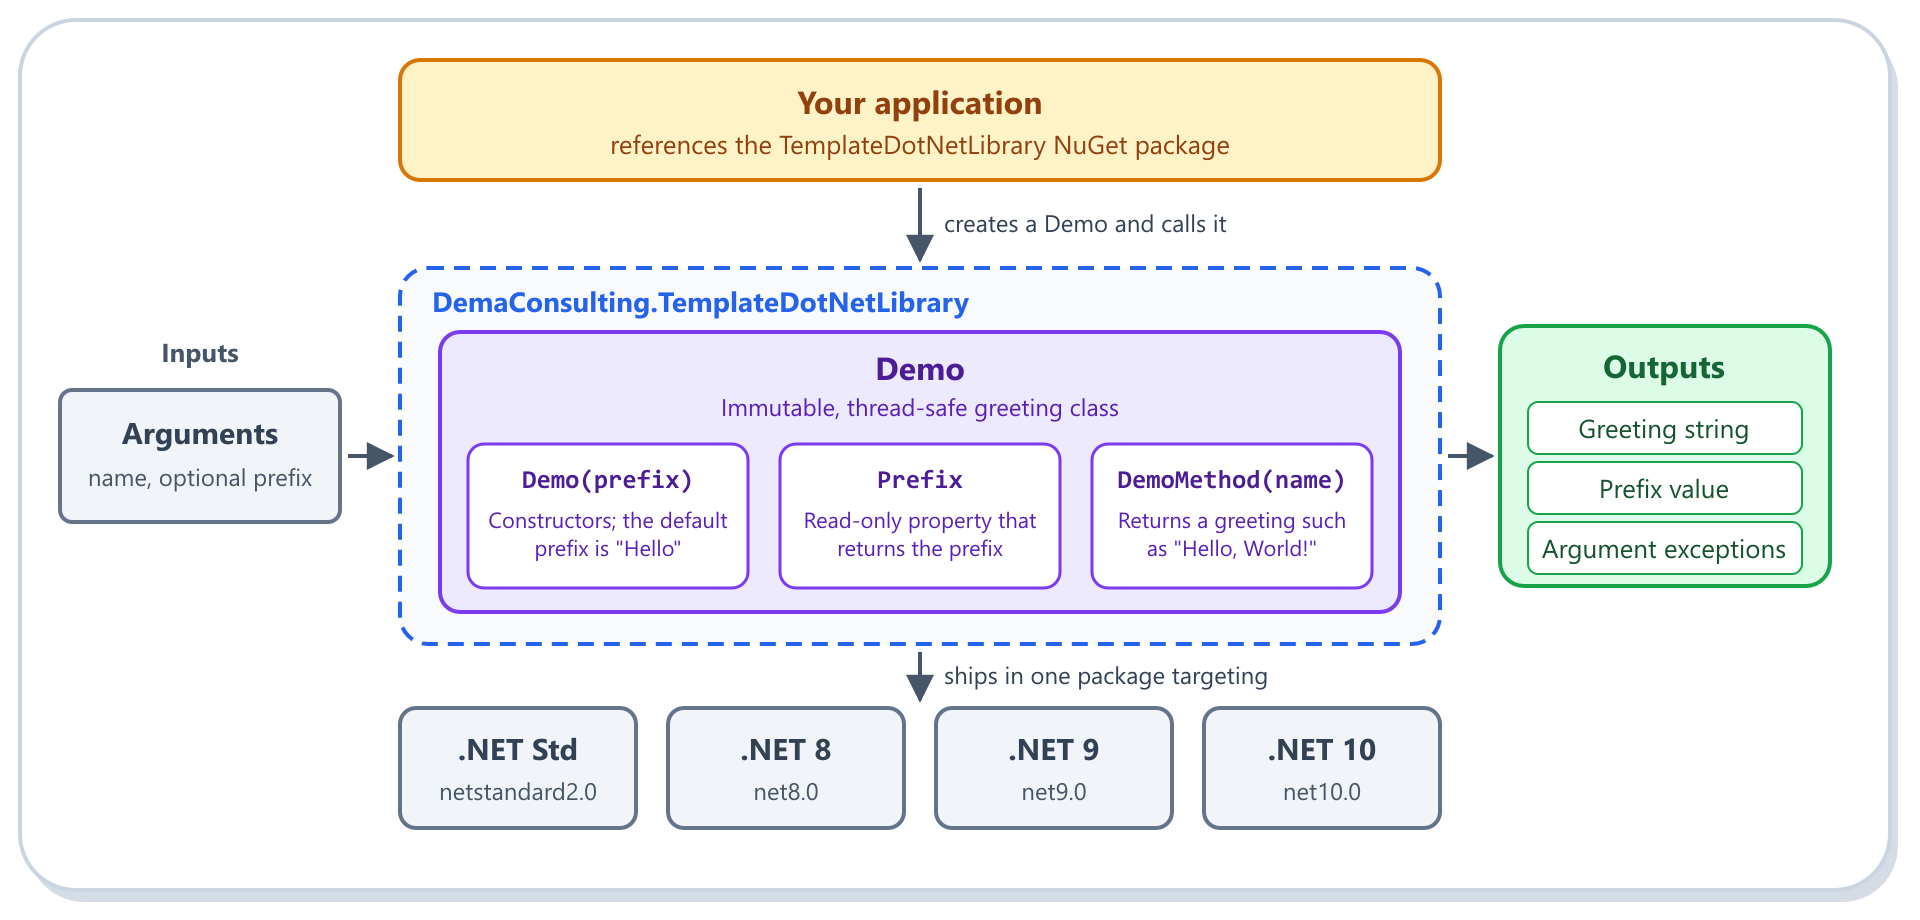
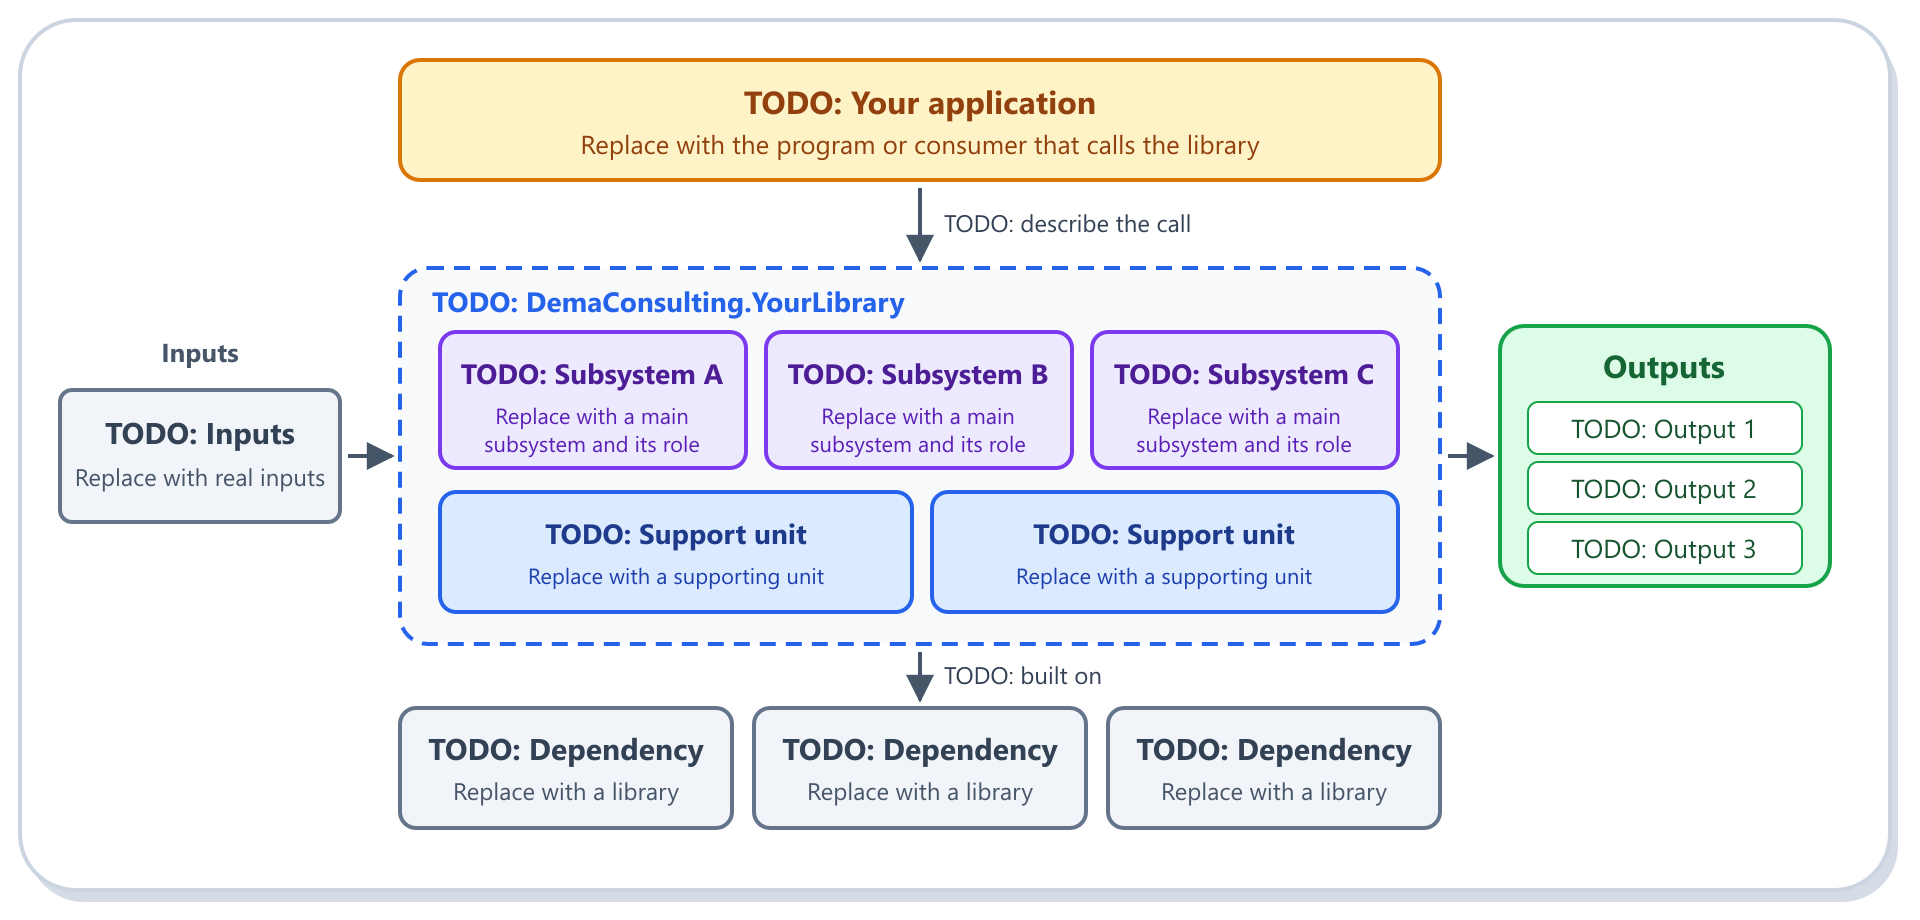
docs: make architecture diagram a TODO placeholder

diff --git a/README.md b/README.md
@@ -11,7 +11,7 @@
 
 DEMA Consulting template project for DotNet Libraries, demonstrating best practices for building reusable .NET libraries.
 
-![Template DotNet Library architecture: your application creates a Demo class from DemaConsulting.TemplateDotNetLibrary, passing a name and an optional prefix, and receives a greeting string; the package targets netstandard2.0, net8.0, net9.0, and net10.0][architecture]
+![Placeholder architecture diagram: replace the TODO boxes for your application, library subsystems, support units, dependencies, inputs, and outputs with the real ones][architecture]
 
 ## Features
 

diff --git a/docs/user_guide/introduction.md b/docs/user_guide/introduction.md
@@ -1,6 +1,6 @@
 # Introduction
 
-![Template DotNet Library architecture: your application creates a Demo class from DemaConsulting.TemplateDotNetLibrary, passing a name and an optional prefix, and receives a greeting string; the package targets netstandard2.0, net8.0, net9.0, and net10.0](architecture.svg)
+![Placeholder architecture diagram: replace the TODO boxes for your application, library subsystems, support units, dependencies, inputs, and outputs with the real ones](architecture.svg)
 
 ## Purpose
 
